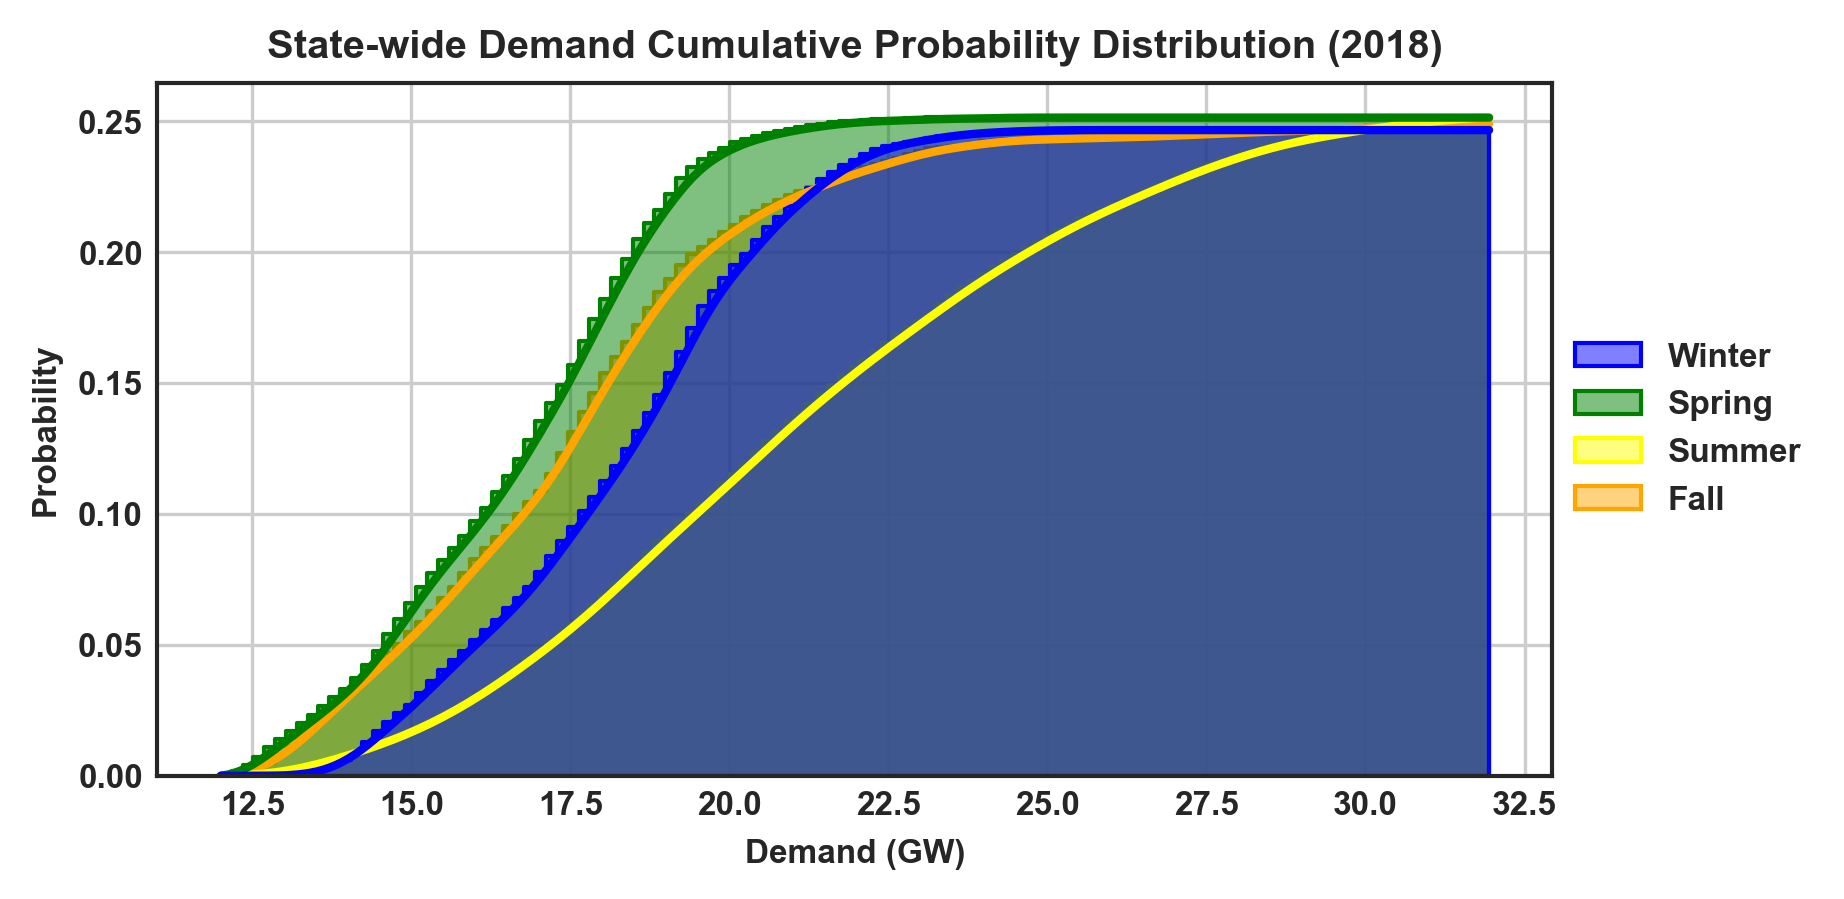
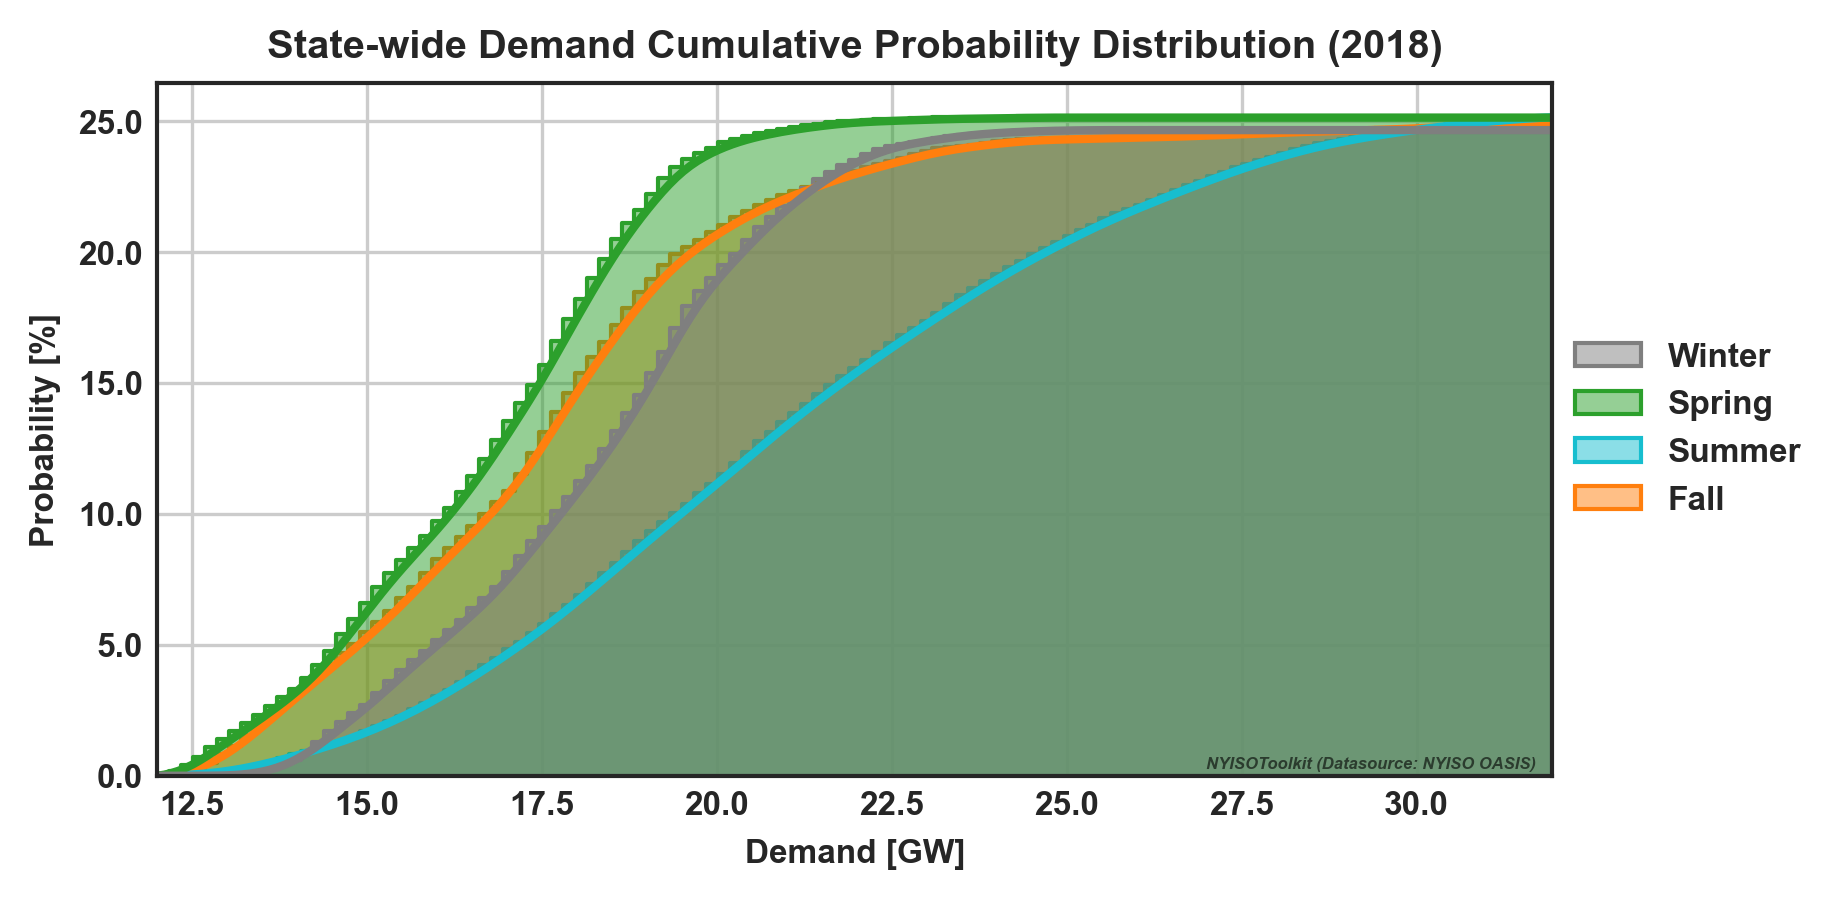
added stat plots of demand and statewide prices

diff --git a/nyisotoolkit/nyisovis/nyisovis.py b/nyisotoolkit/nyisovis/nyisovis.py
@@ -2,6 +2,7 @@ import pathlib as pl
 import matplotlib as mpl
 import matplotlib.dates as mdates
 import matplotlib.pyplot as plt
+import matplotlib.ticker as mtick
 from mpl_toolkits.mplot3d import Axes3D
 import seaborn as sns
 import yaml
@@ -11,40 +12,13 @@ import numpy as np
 from nyisotoolkit.nyisodata.nyisodata import NYISOData, DATABASE_DIR, table_load_weighted_price
 from nyisotoolkit.nyisostat.nyisostat import NYISOStat
 
-
-# Figure Configuration
-plt.style.use(['seaborn-whitegrid'])
-plt.rcParams.update({'font.weight': 'bold',
-                     'font.size': 8,
-                     'axes.labelweight': 'bold',
-                     'lines.linewidth': 2,
-                     'axes.titleweight': 'bold',
-                     'axes.grid': True,
-                     'axes.edgecolor': '.15',
-                     'legend.frameon': False})
-
 # Legend Colors
 c_dir = pl.Path(__file__).resolve().parent
 figure_config_path = pl.Path(c_dir, "legend_colors.yml")
 with open(figure_config_path) as file:
     all_configs = yaml.load(file, Loader=yaml.FullLoader)
     LEGEND_DEETS = all_configs["legend_colors"]
-
-# List of Carbon Free Resources
-CARBONFREE_SOURCES = ["Hydro", "Other Renewables", "Wind", "Nuclear"]
-
-SEASONS = {12:"Winter", 1:"Winter", 2: "Winter",
-           3:"Spring", 4:"Spring", 5:"Spring",
-           6:"Summer", 7:"Summer", 8:"Summer",
-           9:"Fall", 10:"Fall", 11:"Fall"
-          }
-
-SEASON_COLORS = {"Winter": "blue",
-                 "Spring": "green",
-                 "Summer": "yellow",
-                 "Fall"  : "orange"
-                 }
-
+    
 class NYISOVis:
     """A class used to create power system visualizations from the NYISOData and NYISOStat modules
 
@@ -444,13 +418,13 @@ class NYISOVis:
         file = pl.Path(self.out_dir,f'{self.year}_decarbonization_heatmap.png')
         fig.savefig(file, bbox_inches='tight', transparent=True)
     
-    def demand_pdf(self, cumulative=False):
+    def fig_demand_pdf(self, cumulative=False):
         """Creates a figure of the year's demand probability density function."""
         df = NYISOData(dataset="load_5m", year=self.year).df.tz_convert('US/Eastern')["NYCA"]/1000 #MW->GW
         df = pd.DataFrame(df)
         ax_kwargs = {"title":f'State-wide Demand Probability Distribution ({self.year})',
-                     "xlabel":"Demand (GW)", "ylabel":"Probability",
-                     "xlim":None, "ylim":None}
+                     "xlabel":"Demand [GW]", "ylabel":"Probability [%]",
+                     "xlim":(df.values.min(),df.values.max()), "ylim":None}
         
         HISTPLOT_KWARGS.update({"cumulative":cumulative})
         if cumulative:
@@ -462,17 +436,37 @@ class NYISOVis:
         else:
             file = pl.Path(self.out_dir,f'{self.year}_demand_pdf.png')
         fig.savefig(file, bbox_inches='tight', transparent=True)
-
-    def price_pdf(self, rt, cumulative = False):
-        """Creates a figure of the state-wide average energy price probability distribution.
+    
+    def fig_demand_forecast_error(self, cumulative=False):
+        load = NYISOData(dataset="load_h", year=self.year).df.tz_convert('US/Eastern')["NYCA"] #MW
+        load_forecast = NYISOData(dataset="load_forecast_h", year=self.year).df.tz_convert('US/Eastern')["NYCA"] #MW
+        load_forecast = load_forecast.loc[load.index]
+        df = (load_forecast-load)/load *100 # error [%]
+        df = pd.DataFrame(df)
+        ax_kwargs = {"title":f'State-wide Demand Forecast Error Probability Distribution ({self.year})',
+                     "xlabel":"Demand [MW]", "ylabel":"Probability [%]",
+                     "xlim":(df.values.min(),df.values.max()), "ylim":None}
         
-        Todo: DA price should be weighted by the DA load prediction. RT should be weighed by real demand.
+        HISTPLOT_KWARGS.update({"cumulative":cumulative})
+        if cumulative:
+            ax_kwargs.update({"title": f'State-wide Demand Forecast Error Cumulative Probability Distribution ({self.year})'})
+        fig = pdf(df.rename(columns={'NYCA':"Values"}), ax_kwargs, HISTPLOT_KWARGS)
+        # Save
+        if cumulative:
+            file = pl.Path(self.out_dir,f'{self.year}_demand_forecast_error_cumulative_pdf.png')
+        else:
+            file = pl.Path(self.out_dir,f'{self.year}_demand_forecast_error_pdf.png')
+        fig.savefig(file, bbox_inches='tight', transparent=True)
+
+
+    def fig_price_pdf(self, rt, cumulative = False):
+        """Creates a figure of the state-wide average energy price probability distribution.
         """
-        df = table_load_weighted_price(year=self.year, rt=rt)
+        df = table_load_weighted_price(year=self.year, rt=rt) #$/MWh
         da_rt = "RT" if rt else "DA"
         ax_kwargs = {"title":f'State-wide Average Baseload {da_rt} Energy Price\n Probability Distribution ({self.year})',
-                     "xlabel":"Price ($/MWh)", "ylabel":"Probability",
-                     "xlim":None, "ylim":None}
+                     "xlabel":"Price ($/MWh)", "ylabel":"Probability [%]",
+                     "xlim":(df.values.min(),df.values.max()), "ylim":None}
         HISTPLOT_KWARGS.update({"cumulative":cumulative})
         if cumulative:
             ax_kwargs.update({"title": f'State-wide Average Baseload {da_rt} Energy Price\n Cumulative Probability Distribution ({self.year})'})
@@ -484,23 +478,23 @@ class NYISOVis:
             file = pl.Path(self.out_dir,f'{self.year}_{da_rt}_price_pdf.png')
         fig.savefig(file, bbox_inches='tight', transparent=True)
         
-    def price_delta_pdf(self, cumulative = False):
-        rt_price = table_load_weighted_price(year=self.year, rt=True).resample("H").mean()
-        da_price = table_load_weighted_price(year=self.year, rt=False)
-        rt_da_delta = da_price - rt_price
+    def fig_price_difference_pdf(self, cumulative = False):
+        rt_price = table_load_weighted_price(year=self.year, rt=True).resample("H").mean() #$/MWh
+        da_price = table_load_weighted_price(year=self.year, rt=False) #$/MWh
+        df = da_price - rt_price
         ax_kwargs = {"title":f'State-wide Average Baseload DA-RT Energy Price Difference\n Probability Distribution ({self.year})',
-                     "xlabel":"Price ($/MWh)", "ylabel":"Probability",
-                     "xlim":None, "ylim":None}
+                     "xlabel":"Price ($/MWh)", "ylabel":"Probability [%]",
+                     "xlim":(df.values.min(),df.values.max()), "ylim":None}
         
         HISTPLOT_KWARGS.update({"cumulative":cumulative})
         if cumulative:
-            ax_kwargs.update({"title": f'State-wide Average Baseload DA-RT Energy Price Differenence\n Cumulative Probability Distribution ({self.year})'})
-        fig = pdf(rt_da_delta.rename(columns={0:"Values"}), ax_kwargs, HISTPLOT_KWARGS)
+            ax_kwargs.update({"title": f'State-wide Average Baseload DA-RT Energy Price Difference \n Cumulative Probability Distribution ({self.year})'})
+        fig = pdf(df.rename(columns={0:"Values"}), ax_kwargs, HISTPLOT_KWARGS)
         # Save
         if cumulative:
-            file = pl.Path(self.out_dir,f'{self.year}_pricedelta_cumulative_pdf.png')
+            file = pl.Path(self.out_dir,f'{self.year}_price_difference_cumulative_pdf.png')
         else:
-            file = pl.Path(self.out_dir,f'{self.year}_pricedelta_pdf.png')
+            file = pl.Path(self.out_dir,f'{self.year}_price_difference_pdf.png')
         fig.savefig(file, bbox_inches='tight', transparent=True)
     
     def fig_carbon_free_years(self):
@@ -523,10 +517,15 @@ def pdf(df, ax_kwargs, histplot_kwargs):
                             "alpha": 0.5,
                             "legend":True,
                             })
-    
     ax = sns.histplot(**histplot_kwargs)
+    ax = fix_legend(ax, loc='right', bbox_to_anchor=(1.2, 0.5), ncol=1)
     ax.set(**ax_kwargs)
-    ax = fix_legend(ax, loc='right', bbox_to_anchor=(1.2, 0.5), ncol=1) #
+    ax.yaxis.set_major_formatter(mtick.PercentFormatter(1.0, symbol=None))
+
+    # NYISOToolkit label and source
+    ax.text(0.87, 0.01, 'NYISOToolkit (Datasource: NYISO OASIS)',
+            c='black', fontsize='4', fontstyle= 'italic', horizontalalignment='center',
+            alpha=0.6, transform=ax.transAxes)
     return ax.figure
 
 def fix_legend(ax, **kws):
@@ -551,9 +550,36 @@ def statistical_plots(nyisovis_kwa):
     nv = NYISOVis(**nyisovis_kwa)
     for rtorda in [False, True]:
         for c in [False, True]:
-            nv.demand_pdf(cumulative=c)
-            nv.price_pdf(rt=rtorda, cumulative=c)
-            nv.price_delta_pdf(cumulative=c)
+            nv.fig_demand_pdf(cumulative=c)
+            nv.fig_demand_forecast_error(cumulative=c)
+            nv.fig_price_pdf(rt=rtorda, cumulative=c)
+            nv.fig_price_difference_pdf(cumulative=c)
+
+# Figure Configuration
+plt.style.use(['seaborn-whitegrid'])
+plt.rcParams.update({'font.weight': 'bold',
+                     'font.size': 8,
+                     'axes.labelweight': 'bold',
+                     'lines.linewidth': 2,
+                     'axes.titleweight': 'bold',
+                     'axes.grid': True,
+                     'axes.edgecolor': '.15',
+                     'legend.frameon': False})
+
+# List of Carbon Free Resources
+CARBONFREE_SOURCES = ["Hydro", "Other Renewables", "Wind", "Nuclear"]
+
+SEASONS = {12:"Winter", 1:"Winter", 2: "Winter",
+           3:"Spring", 4:"Spring", 5:"Spring",
+           6:"Summer", 7:"Summer", 8:"Summer",
+           9:"Fall", 10:"Fall", 11:"Fall"
+          }
+
+SEASON_COLORS = {"Winter": "tab:gray",
+                 "Spring": "tab:green",
+                 "Summer": "tab:cyan",
+                 "Fall"  : "tab:orange"
+                 }
 
 HISTPLOT_KWARGS = {"data": None,
                    "ax": None,

diff --git a/tests/test_nyisovis.py b/tests/test_nyisovis.py
@@ -1,6 +1,8 @@
 import pytest
 from datetime import datetime
 import pytz
+import matplotlib.pyplot as plt
+
 from nyisotoolkit import NYISOVis
 from nyisotoolkit.nyisovis.nyisovis import basic_plots, statistical_plots
 from nyisotoolkit.nyisodata.utils import current_year
@@ -11,6 +13,7 @@ def test_basic_plots():
     for year in years:
         nyisovis_kwargs["year"] = year
         basic_plots(nyisovis_kwargs)
+        plt.close("all")
             
 def test_statistical_plots():
     nyisovis_kwargs = {"redownload":False}
@@ -18,6 +21,7 @@ def test_statistical_plots():
     for year in years:
         nyisovis_kwargs["year"] = year
         statistical_plots(nyisovis_kwargs)
+        plt.close("all")
     
 if __name__ == "__main__":
     #test_basic_plots()

diff --git a/nyisotoolkit/nyisodata/nyisodata.py b/nyisotoolkit/nyisodata/nyisodata.py
@@ -255,7 +255,7 @@ def table_load_weighted_price(year, rt):
                                                             load_df.index.shape[0],
                                                             lbmp_df.index.shape[0])
                                                             )
-    return pd.DataFrame((load_df*lbmp_df).sum(axis="columns")/load_df["NYCA"])
+    return pd.DataFrame((load_df*lbmp_df).sum(axis="columns")/load_df["NYCA"]) #$/MWh
 
 EXTERNAL_TFLOWS_MAP = {
     "SCH - HQ - NY": "HQ CHATEAUGUAY",
